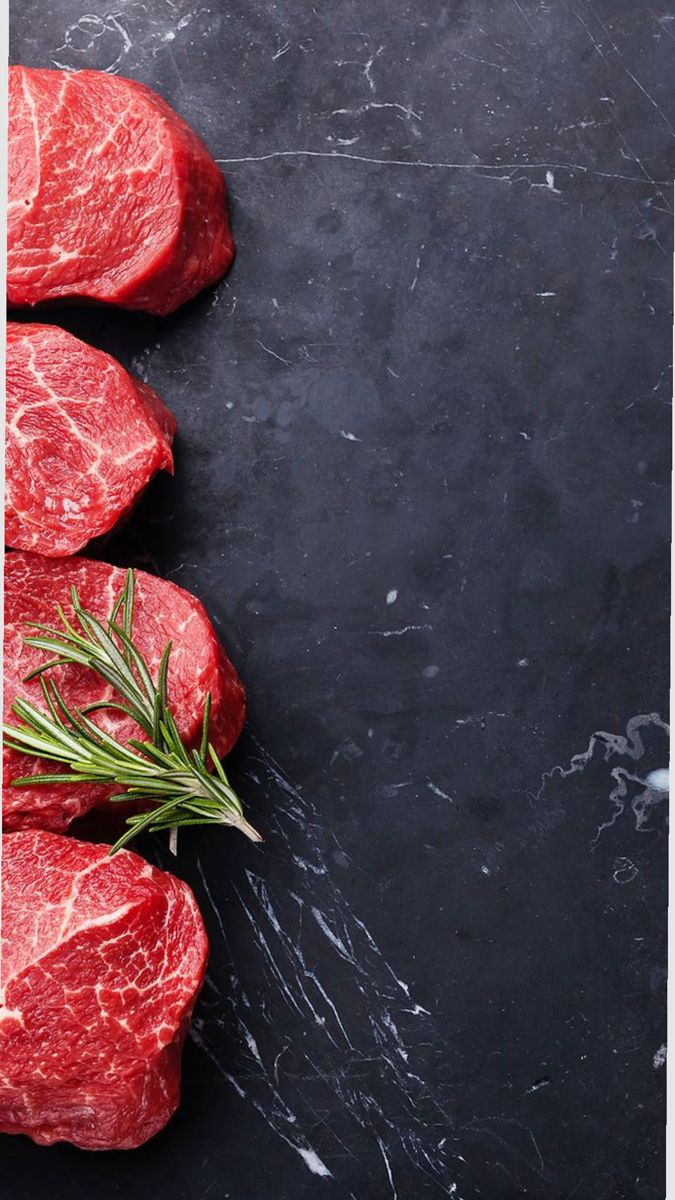
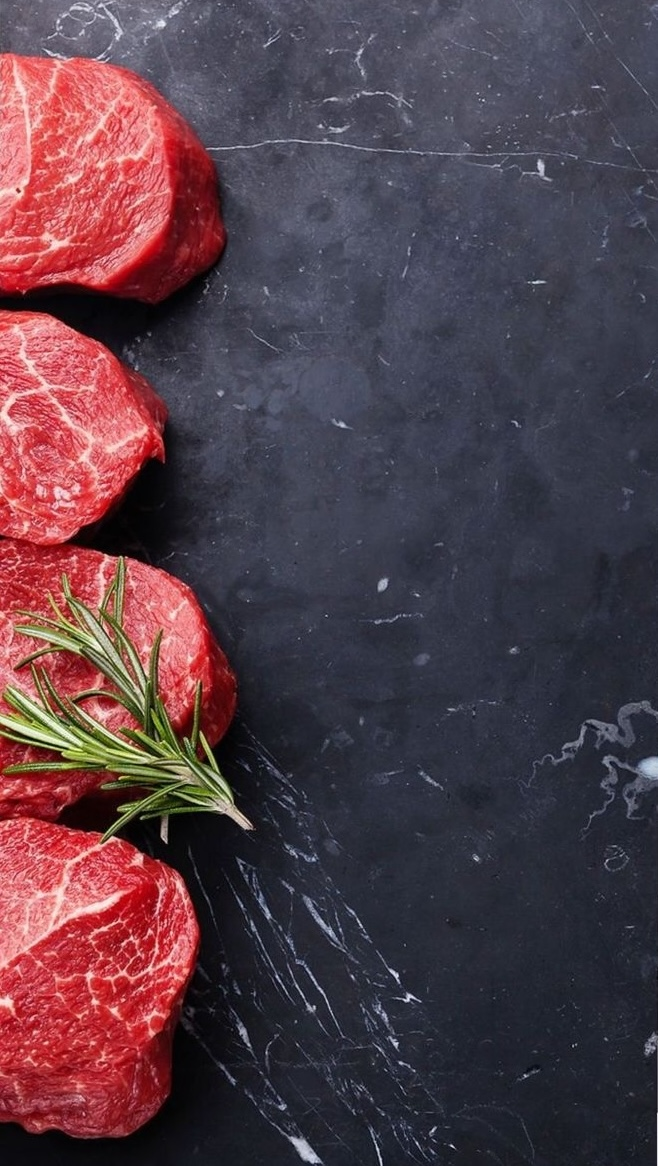
cambiamos las imagenes de algunos apartados del home

diff --git a/js/script.js b/js/script.js
@@ -211,7 +211,7 @@
 
       '<div style="background-color:#101010">' +
         '<div class="section-pad two-col-rev" style="max-width:1280px;margin:0 auto;padding:88px 32px;display:grid;grid-template-columns:1fr 1fr;gap:60px;align-items:center">' +
-          '<div style="height:380px;border-radius:4px;overflow:hidden"><img src="Images/ribeye-strip-loin.jpeg" alt="Cortes frescos Carnes Marty" style="width:100%;height:100%;object-fit:cover;display:block"></div>' +
+          '<div style="height:380px;border-radius:4px;overflow:hidden"><img src="Images/David_primerPlano.png" alt="Cortes frescos Carnes Marty" style="width:100%;height:100%;object-fit:cover;display:block;border-radius:12px"></div>' +
           '<div style="display:flex;flex-direction:column;gap:18px">' +
             '<span style="font-family:\'Inter\',sans-serif;font-size:12px;letter-spacing:0.2em;text-transform:uppercase;color:#d1a66a;font-weight:600">Sobre Carnes Marty</span>' +
             '<h2 style="font-family:\'Playfair Display\',serif;font-weight:600;font-size:32px;margin:0;color:#FFFFFF">Cortes frescos y premium, todos los días</h2>' +
@@ -236,7 +236,7 @@
         '</div>' +
       '</div>' +
 
-      '<div style="position:relative;padding:100px 32px;background-image:url(\'Images/ribeye-strip-loin.jpeg\');background-size:cover;background-position:center;display:flex;align-items:center;justify-content:center;text-align:center;overflow:hidden">' +
+      '<div style="position:relative;padding:100px 32px;background-image:url(\'Images/cortes_frescos.jpeg\');background-size:cover;background-position:center;display:flex;align-items:center;justify-content:center;text-align:center;overflow:hidden">' +
         '<div style="position:absolute;inset:0;background:rgba(10,9,8,0.65)"></div>' +
         '<div style="position:relative;z-index:2;display:flex;flex-direction:column;align-items:center;gap:18px;max-width:640px">' +
           '<h2 style="font-family:\'Playfair Display\',serif;font-weight:600;font-size:clamp(26px,4vw,38px);margin:0;color:#FAF7F4">Carne fresca, todos los días</h2>' +
@@ -253,7 +253,7 @@
             '<p style="font-family:\'Inter\',sans-serif;font-size:14.5px;line-height:1.65;color:#E2E8F0;margin:0;max-width:440px">En Carnes Marty nos encargamos de encontrar el corte perfecto para ti.</p>' +
             '<span onclick="navigate(\'recomendaciones\')" class="link-arrow" style="cursor:pointer;align-self:flex-start;margin-top:6px;border-bottom:1px solid #855F4F;color:#D1A66A;font-size:14px;font-weight:600;padding-bottom:2px">Ver recomendaciones →</span>' +
           '</div>' +
-          '<div style="height:260px;border-radius:5px;overflow:hidden"><img src="Images/cortes-mas-pedidos.jpeg" alt="¿No sabes qué elegir?" style="width:100%;height:100%;object-fit:cover;display:block"></div>' +
+          '<div class="carnicero-photo" style="height:260px;border-radius:5px;overflow:hidden"><img src="Images/cortes-mas-pedidos.jpeg" alt="¿No sabes qué elegir?" style="width:100%;height:100%;object-fit:cover;display:block"></div>' +
         '</div>' +
       '</div>' +
 

diff --git a/css/style.css b/css/style.css
@@ -233,6 +233,8 @@ button { font: inherit; }
   .visitanos-grid { grid-template-columns: 1fr !important; }
   .visitanos-map { order: 2 !important; }
   .visitanos-info { order: 1 !important; align-items: center; text-align: center; }
+  .carnicero-photo { height: auto !important; }
+  .carnicero-photo img { height: auto !important; object-fit: contain !important; }
 }
 @media (max-width: 620px) {
   .grid-4 { grid-template-columns: 1fr !important; }